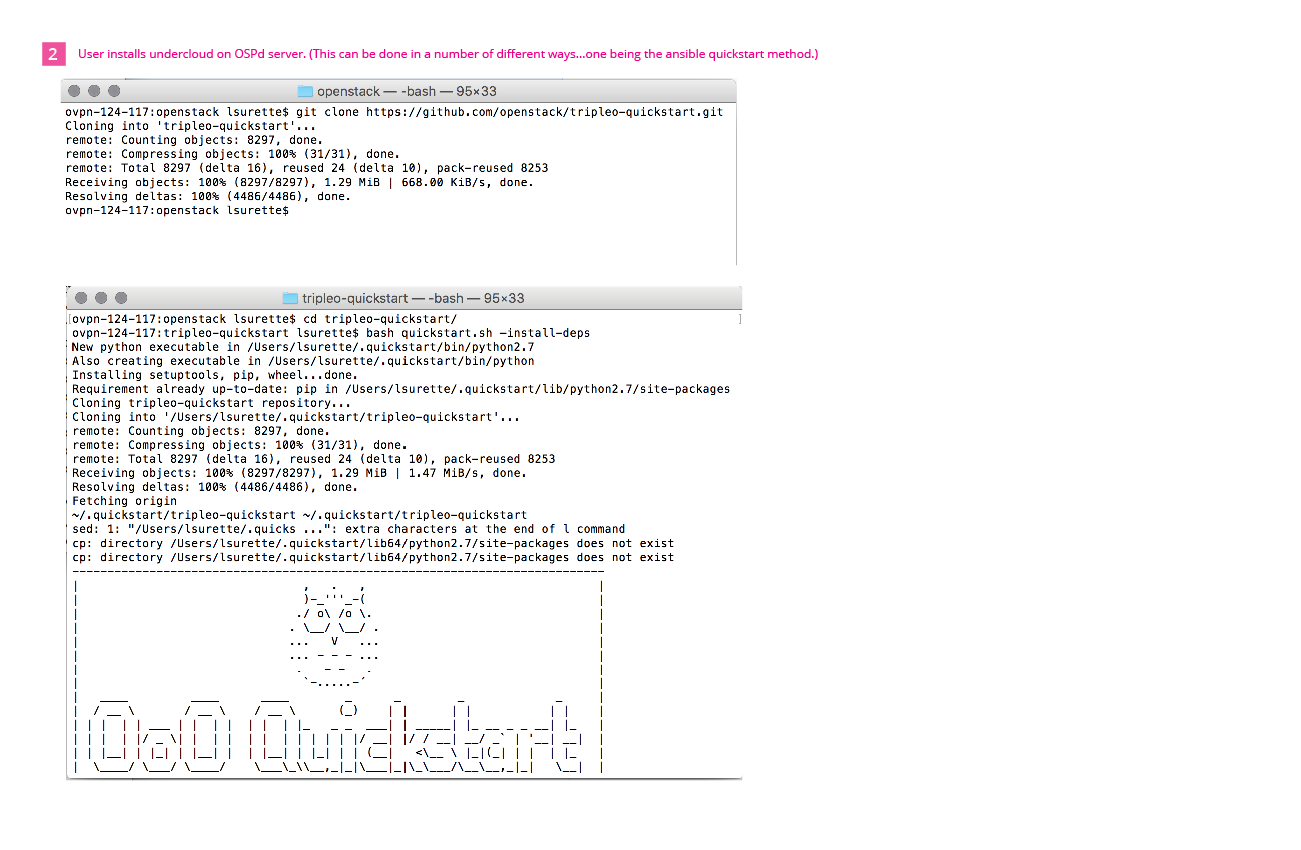
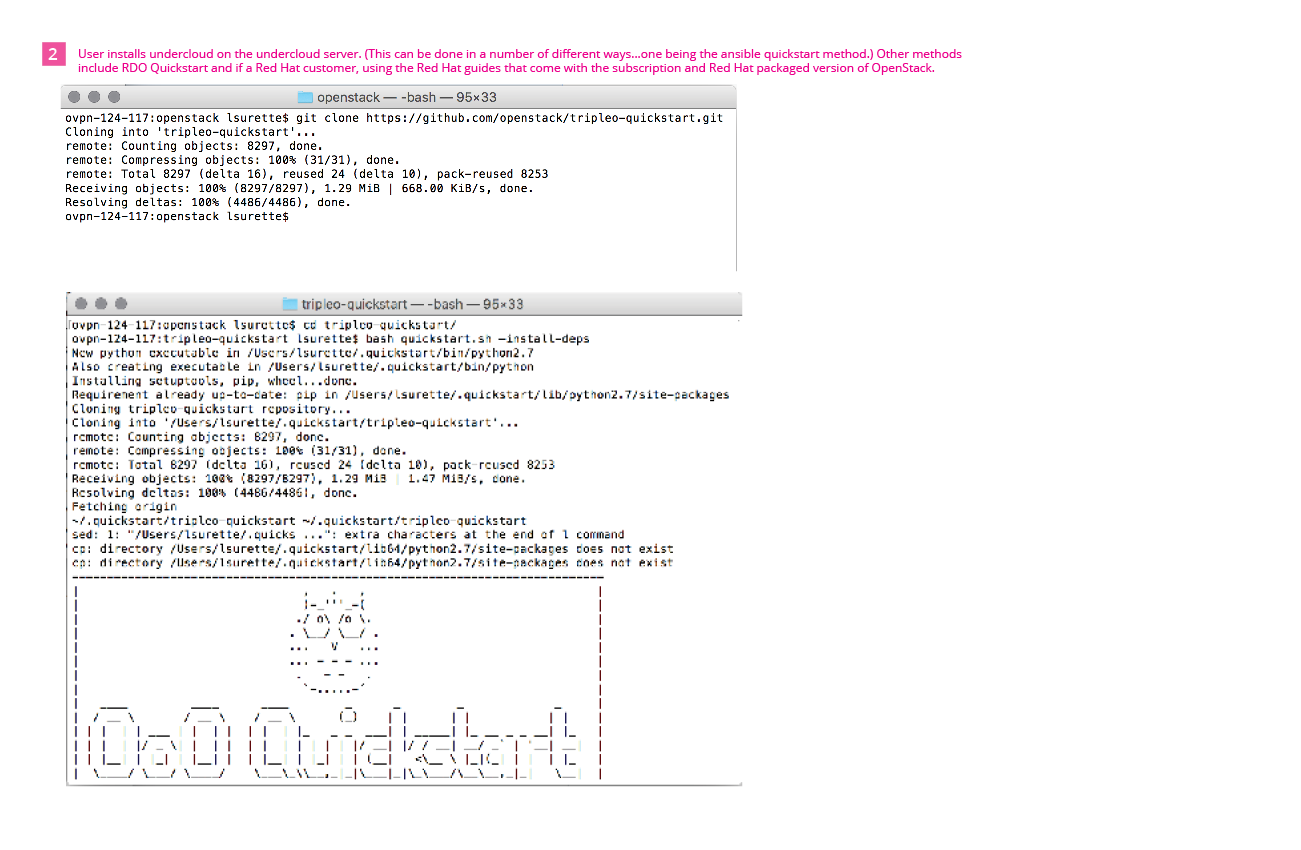
Updating details around the preparation expert installing the undercloud
Fixes #1

Changed region(s): [[0.0307, 0.3365, 0.5534, 0.9482], [0.0307, 0.0612, 0.7379, 0.2753]]

diff --git a/tripleo-ui/2-preparation before edge technician deploys/preparedeploymentbyexpert.md b/tripleo-ui/2-preparation before edge technician deploys/preparedeploymentbyexpert.md
@@ -9,7 +9,7 @@ Preparation Expert Persona (TBD)
 
 ## Install Undercloud
 ![installundercloud](img/2017-7-24 TripleO UI_13_PrepWork4.png)
-- The first step of installing the undercloud is to clone and run the TripleO Quickstart project.
+- The preparation expert can install the undercloud in a number of different ways. One of these options is to clone and run the TripleO Quickstart project. Other options include using the RDO Quickstart or if a Red Hat customer, the guides provided with a Red Hat subscription.
 
 ## Clone Heat Templates
 ![cloneheattemplates](img/2017-7-24 TripleO UI_13_PrepWork5.png)
